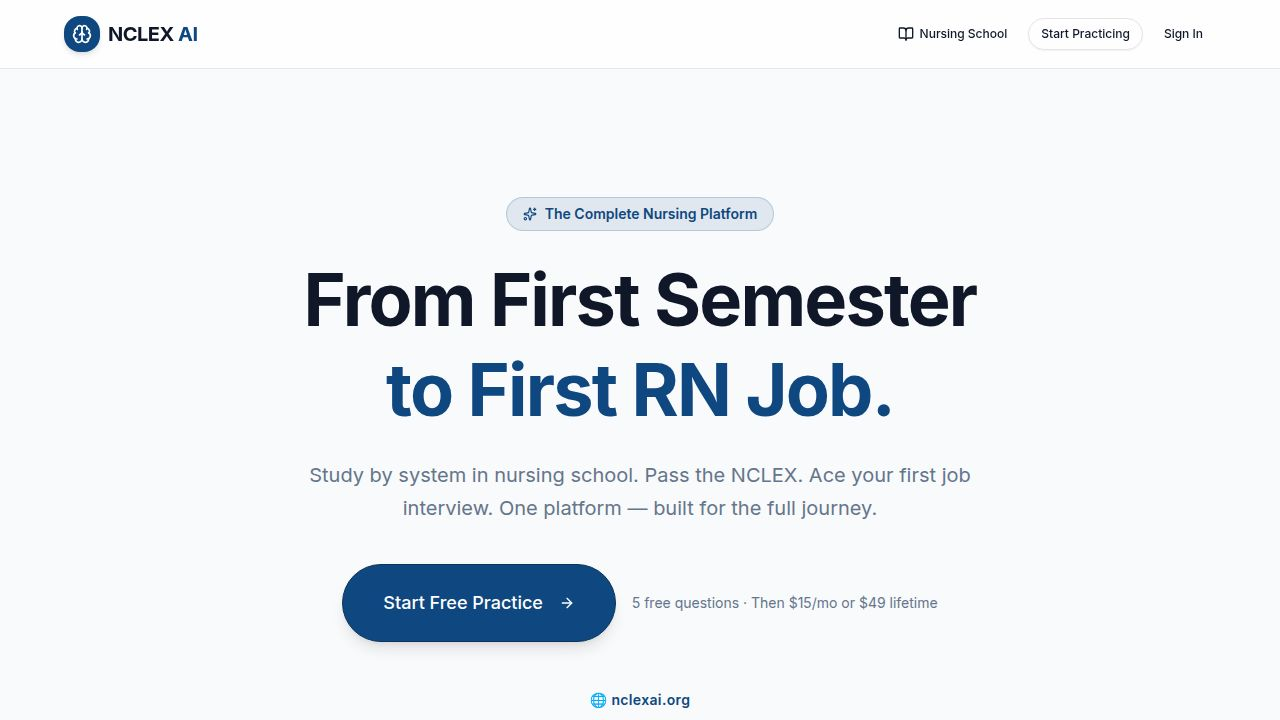
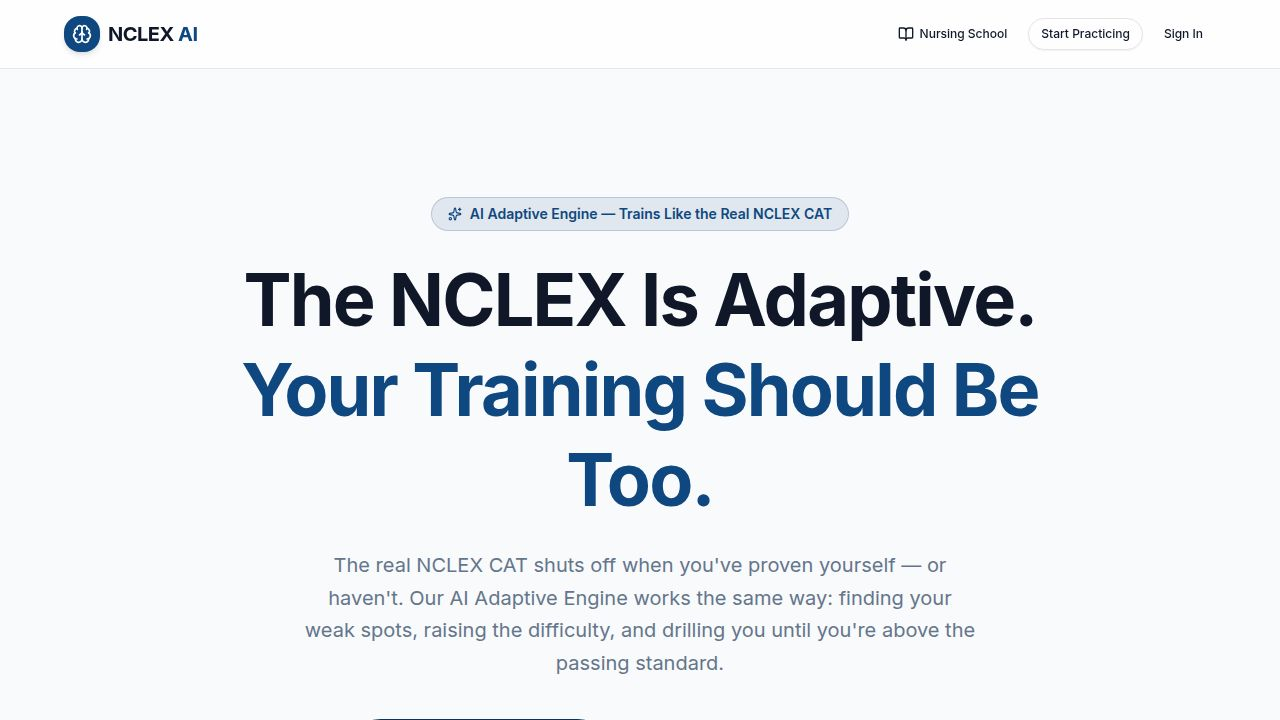
Adapt homepage messaging to highlight adaptive training for the NCLEX
Update hero section badge, headline, and subtext, and the NCLEX Prep pillar description to emphasize the AI Adaptive Engine and its similarity to the NCLEX CAT.

Replit-Commit-Author: Agent
Replit-Commit-Session-Id: 5fbe9f2e-c33d-42a1-ac20-66e041c2383e
Replit-Commit-Checkpoint-Type: full_checkpoint
Replit-Commit-Event-Id: 1630e561-b976-4360-91d5-152589600a96
Replit-Commit-Screenshot-Url: https://storage.googleapis.com/screenshot-production-us-central1/6536a28a-761f-478a-b95d-a95c18a9d21e/5fbe9f2e-c33d-42a1-ac20-66e041c2383e/ZBMQytC
Replit-Helium-Checkpoint-Created: true

diff --git a/artifacts/nclex-prep/src/pages/home.tsx b/artifacts/nclex-prep/src/pages/home.tsx
@@ -139,17 +139,17 @@ export default function Home() {
 
           <div className="inline-flex items-center gap-2 px-4 py-1.5 rounded-full bg-primary/10 text-primary text-sm font-semibold mb-6 border border-primary/20">
             <Sparkles className="w-3.5 h-3.5" />
-            The Complete Nursing Platform
+            AI Adaptive Engine — Trains Like the Real NCLEX CAT
           </div>
 
           <h1 className="text-4xl md:text-6xl lg:text-7xl font-extrabold tracking-tight text-foreground leading-tight max-w-4xl mx-auto mb-6">
-            From First Semester
+            The NCLEX Is Adaptive.
             <br />
-            <span className="text-primary">to First RN Job.</span>
+            <span className="text-primary">Your Training Should Be Too.</span>
           </h1>
 
           <p className="text-lg md:text-xl text-muted-foreground max-w-2xl mx-auto mb-10 leading-relaxed">
-            Study by system in nursing school. Pass the NCLEX. Ace your first job interview. One platform — built for the full journey.
+            The real NCLEX CAT shuts off when you've proven yourself — or haven't. Our AI Adaptive Engine works the same way: finding your weak spots, raising the difficulty, and drilling you until you're above the passing standard.
           </p>
 
           <div className="flex flex-col sm:flex-row items-center gap-4 mb-12">
@@ -215,7 +215,7 @@ export default function Home() {
                 </div>
                 <div className="text-xs font-bold text-primary uppercase tracking-widest mb-2">Pillar 2</div>
                 <h3 className="text-xl font-extrabold tracking-tight mb-2 group-hover:text-primary transition-colors">NCLEX Prep</h3>
-                <p className="text-muted-foreground text-sm leading-relaxed flex-1">2,000+ questions, NGN formats, drag-and-drop, extended multiple response, and AI explanations. Everything the new NCLEX tests.</p>
+                <p className="text-muted-foreground text-sm leading-relaxed flex-1">Train exactly like the real CAT. Our AI Adaptive Engine adjusts every question to your performance — NGN formats, drag-and-drop, extended multiple response. When the computer shuts off at 85, you'll know why.</p>
                 <div className="mt-5 flex items-center gap-1 text-primary text-sm font-semibold">
                   Start practicing <ArrowRight className="w-3.5 h-3.5 ml-1 group-hover:translate-x-1 transition-transform" />
                 </div>
